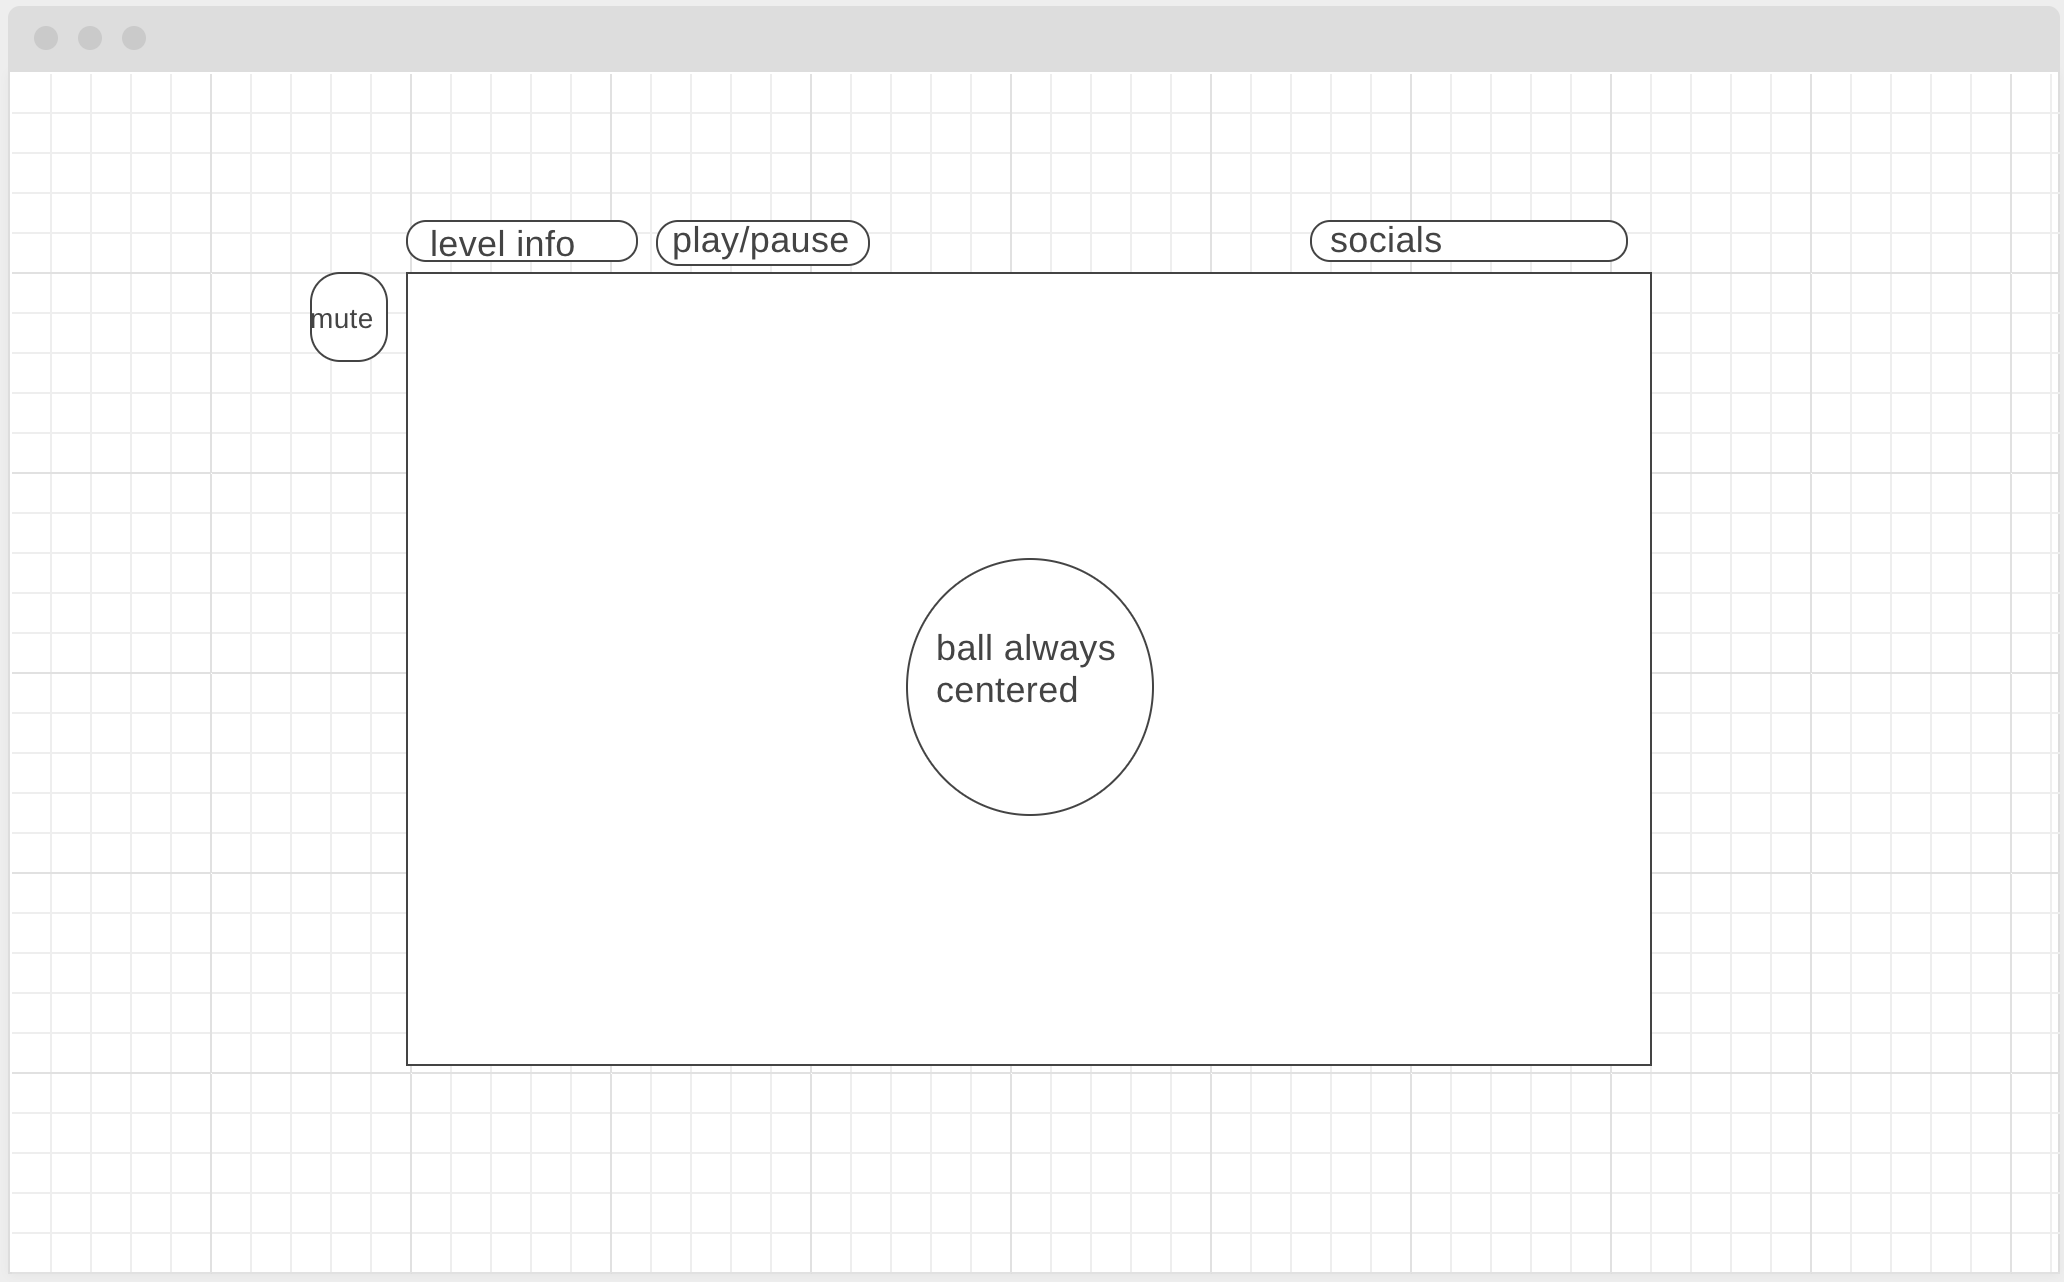
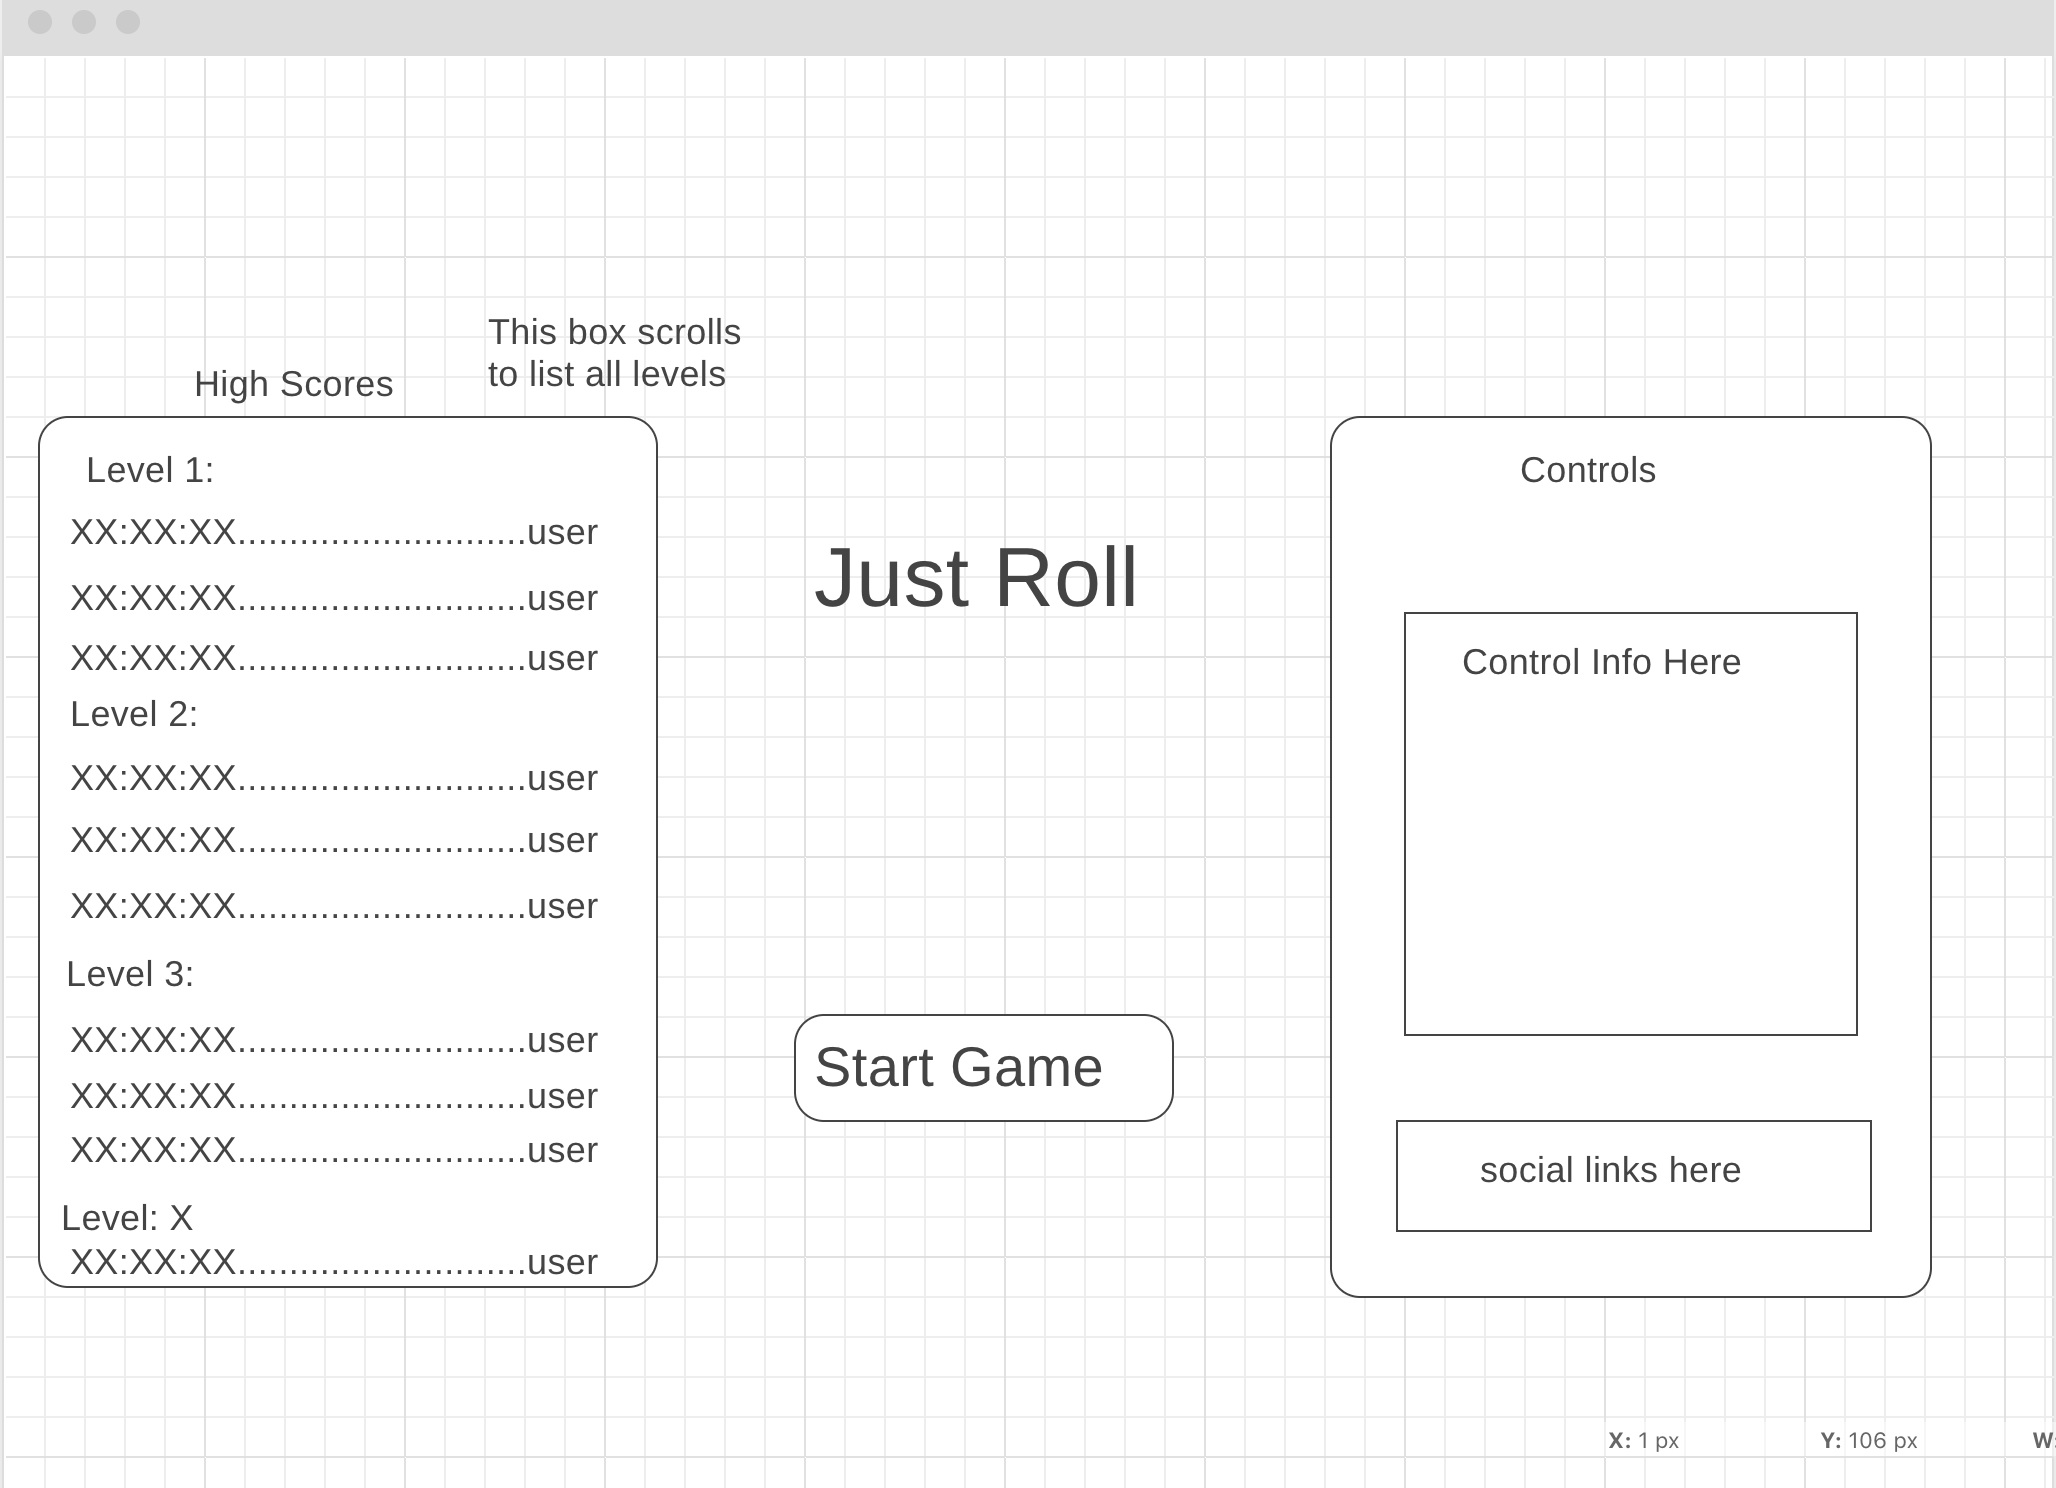
changed mvps and wireframe

diff --git a/README.md b/README.md
@@ -8,14 +8,23 @@ Just Roll uses collision detection to prevent the sphere from passing the course
 distance in the virtual 3D environment.
 
 ### Functionality and MVP
-In Just Roll users will have to navigate
-* A flat environment with no hazards (we'll go easy on them at first)
-* environments with obstacles pushing the ball away
+* basic ball controls
+* Create flat environment with no hazards (we'll go easy on you at first)
+* environments with obstacles that need to be pushed away
 * uneven ground surfaces
-* taking advantage of the ball's elasticity to bounce over hazards
+* taking advantage of the ball collision to create passages
+* verticality in a level
+* scoring player on time
+* menu
+* storing local or global high scores (more research needs to be done on this)
+* menu interface
+* add common sense button controls (arrow keys to move, enter to go to next level, esc to pause and retry)
+* sound on initial collision, user contact, and entering goal
+* (bonus) add particle effects on goal enter
+* (bonus) improve lighting effects
 
 ### Wireframe
-The app will have the HTML canvas in the center with menu controls such as play/pause and menu select at the top left.
+The app will have the HTML canvas take up the entire screen with menus functioning as modals.
 Social media links will be at the top right for interested persons. Mute button will appear left of the canvas
 ![wireframes](assets/js_wireframes.png)
 
